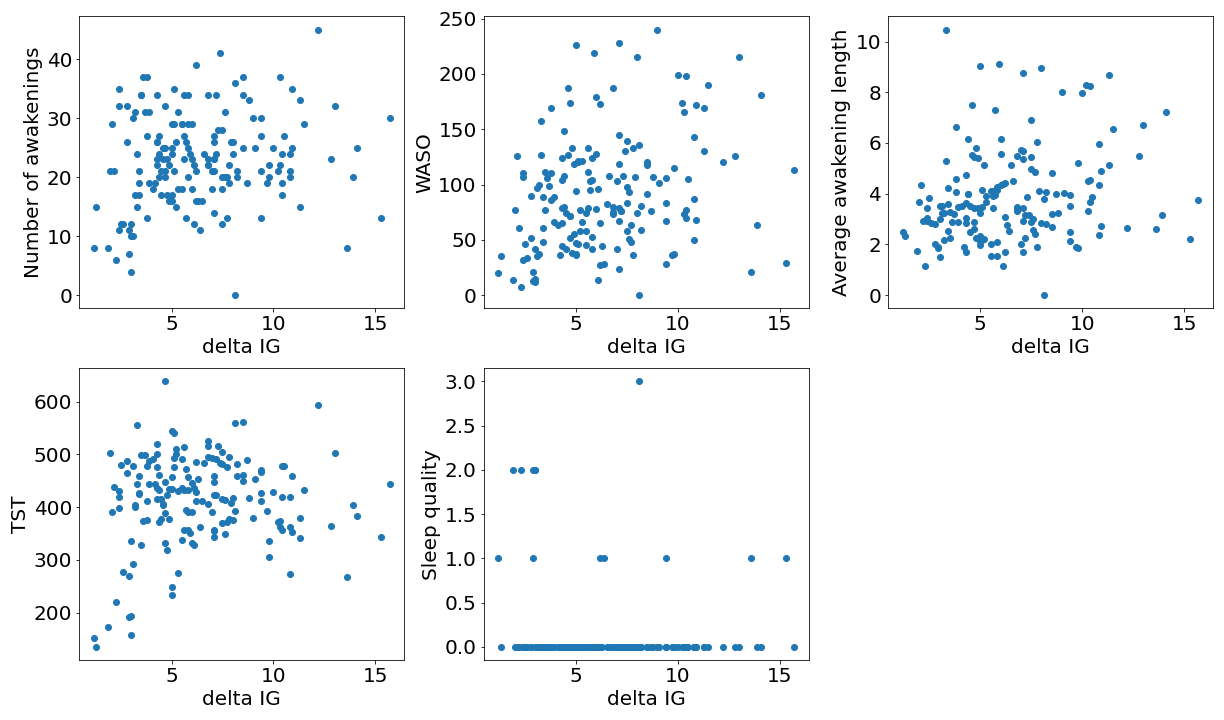
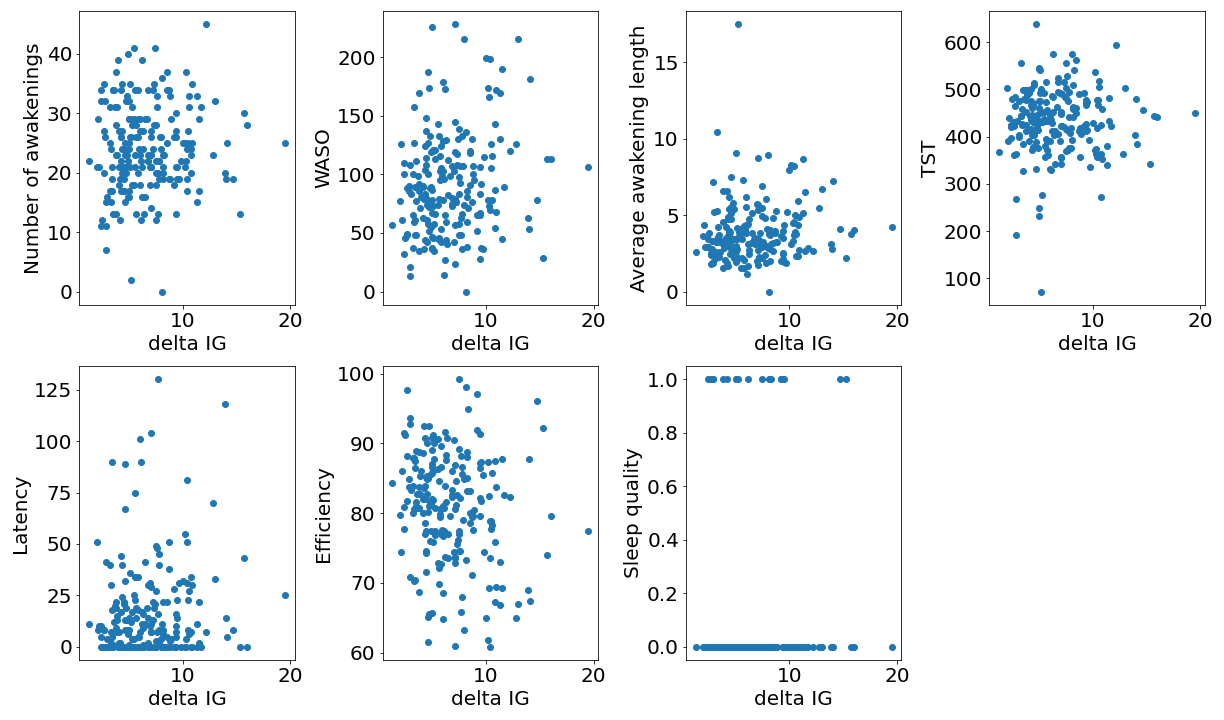
sleep quality definition changed

diff --git a/PlotConcatenateData.py b/PlotConcatenateData.py
@@ -38,7 +38,7 @@ epoch_file_path = os.path.join(base_dir+epoch_file)
 cgm_feature_df = pd.read_csv(cgm_file_path)
 epochs_feature_df = pd.read_csv(epoch_file_path)
 
-data = pd.merge(cgm_data, epoch_data, on=["In Bed DateTime", "Out Bed DateTime"])
+#data = pd.merge(cgm_data, epoch_data, on=["In Bed DateTime", "Out Bed DateTime"])
 
 #%% Plot: std and WASO
 
@@ -111,25 +111,22 @@ plt.yticks(fontsize=12, family='Times New Roman')
 
 plt.close('all')
 
-cgm_features_plot = cgm_feature_df.iloc[:,[2,3,4,5,6,7,9,11,12,13]]
+cgm_features_plot = cgm_feature_df.iloc[:,2:]
 epoch_features_plot = epochs_feature_df.iloc[:,2:]
 
-# Change the feature 'Sleep quality' so 0='Very bad sleep', 1='Fairly bad sleep',
-# 2='Fairly good sleep', 3='Very bad sleep'
-epoch_features_plot.replace('Very bad sleep', 0, inplace=True)
-epoch_features_plot.replace('Fairly bad sleep', 1, inplace=True)
-epoch_features_plot.replace('Fairly good sleep', 2, inplace=True)
-epoch_features_plot.replace('Very good sleep', 3, inplace=True)
+# Change the feature 'Sleep quality' so 0='Bad', 1='Good'
+epoch_features_plot.replace('Bad', 0, inplace=True)
+epoch_features_plot.replace('Good', 1, inplace=True)
 
 all_features = pd.concat([cgm_features_plot,epoch_features_plot],axis=1)
 
 for i, cgm_feature in enumerate(cgm_features_plot):
     
     # Create subplots for each CGM feature
-    fig, axes = plt.subplots(2, 3, figsize=(17, 10))
+    fig, axes = plt.subplots(2, 4, figsize=(17, 10))
     
     for j, epoch_feature in enumerate(epoch_features_plot):
-        ax = axes[j//3, j%3]
+        ax = axes[j//4, j%4]
         ax.scatter(cgm_features_plot[cgm_feature], epoch_features_plot[epoch_feature])
         ax.set_xlabel(cgm_feature, fontsize=20)
         ax.set_ylabel(epoch_feature, fontsize=20)
@@ -137,7 +134,7 @@ for i, cgm_feature in enumerate(cgm_features_plot):
         ax.tick_params(axis='y', labelsize=20) 
 
     # Remove excess axes 
-    axes[1, 2].set_axis_off() 
+    axes[1, 3].set_axis_off() 
     
     plt.tight_layout()
     plt.show()

diff --git a/ActiFeaturesFunc.py b/ActiFeaturesFunc.py
@@ -342,11 +342,14 @@ def calc_sleep_quality(summed_data):
     
     """
     
+    # Bad:
+    # latency > 30
+    # efficiency < 85
+    # WASO > 40
+    
     criteria = {
-    "Very bad sleep": {"latency": (31, np.inf), "efficiency": (0, 80), "WASO": (31, np.inf)},
-    "Fairly bad sleep": {"latency": (21, 31), "efficiency": (80, 84), "WASO": (16, 30)},
-    "Fairly good sleep": {"latency": (15, 20), "efficiency": (85, 90), "WASO": (5, 15)},
-    "Very good sleep": {"latency": (0, 15), "efficiency": (90, 100), "WASO": (0, 5)},
+    "Bad": {"latency": (31, np.inf), "efficiency": (0, 85), "WASO": (41, np.inf)},
+    "Good": {"latency": (0, 31), "efficiency": (85, 100), "WASO": (0, 41)},
     }
     
     latency = summed_data["Latency"]

diff --git a/ActiFeatures.py b/ActiFeatures.py
@@ -16,9 +16,9 @@ from ActiFeaturesFunc import *
 #%% Set the base directory for the current family and session
 
 # Choose what study to import and preprocess data from
-# study = "MindYourDiabetes"
-study = "Validationstudy_2020_2021_Cecilie"
-# study = "Sleep-1-child_2023_Cecilie"
+#study = "MindYourDiabetes"
+#study = "Validationstudy_2020_2021_Cecilie"
+study = "Sleep-1-child_2023_Cecilie"
 #study = "Kasper" 
 
 # Base directory/path
